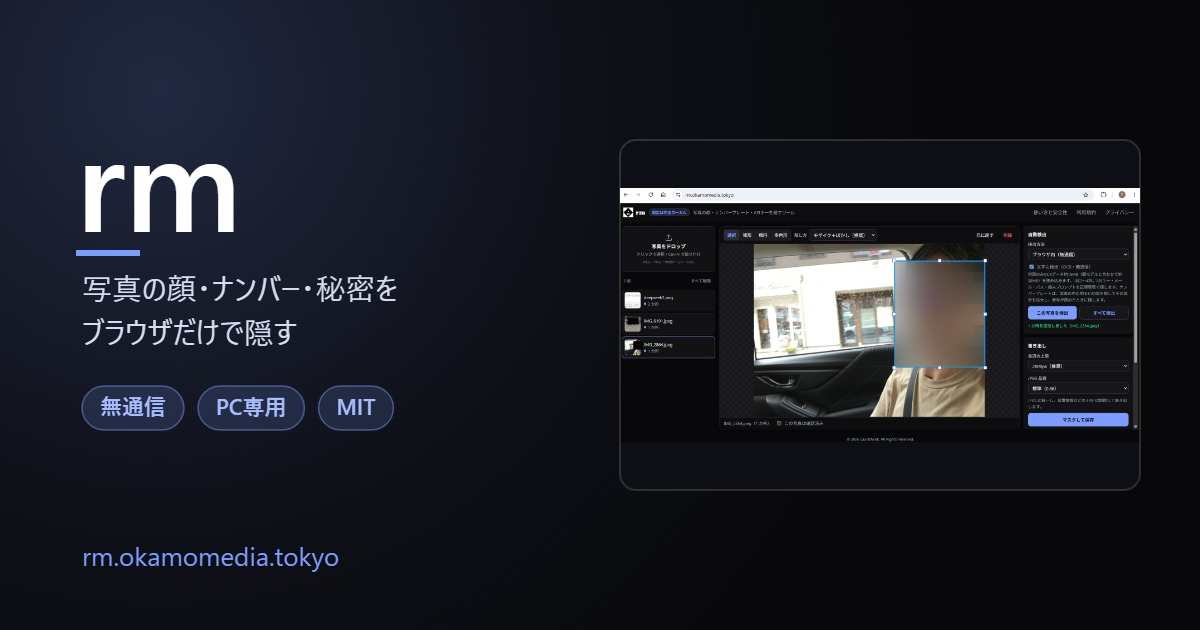
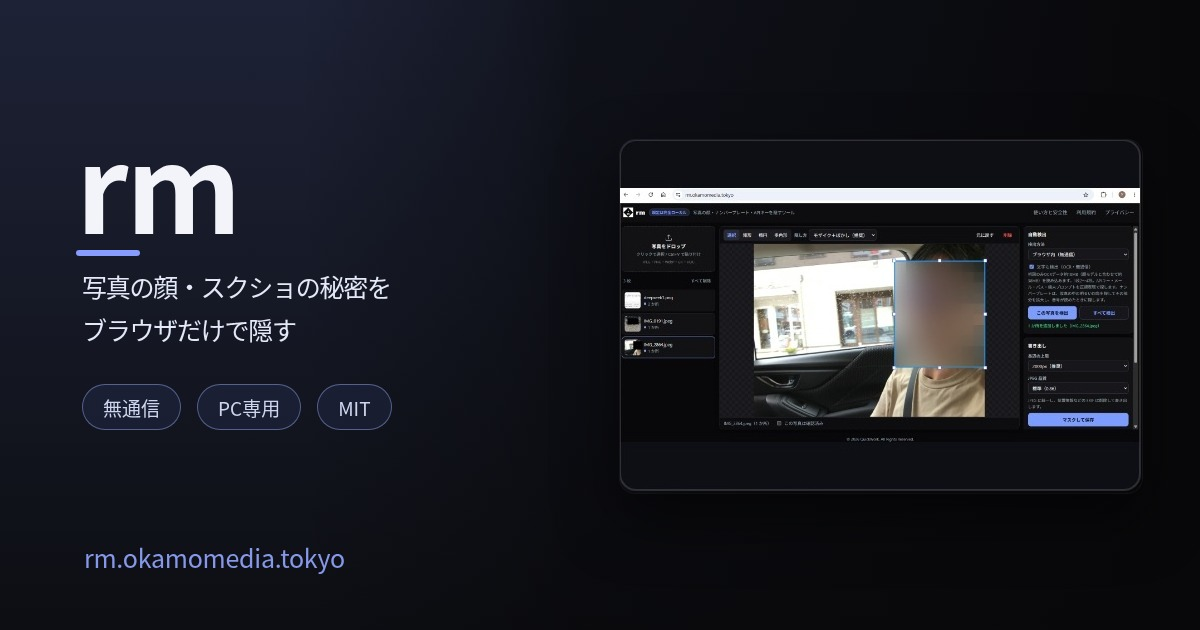
feat(og): OGP 画像を再生成し、ナンバープレートの訴求を外す
- キャッチコピーを「写真の顔・スクショの秘密を / ブラウザだけで隠す」に変更
- レイアウト・配色・アプリ画面は既存の OGP を再現（位置と色を実測して一致させた）
- scripts/gen-og.mjs を追加（npm run gen:og、--preview で確認用出力）
- 右側のアプリ画面は assets/og-shot.jpg に切り出して再生成できるようにした

diff --git a/README.md b/README.md
@@ -78,6 +78,7 @@ npm install
 npm run dev      # 開発サーバー
 npm run build    # dist/ へ本番ビルド
 npm run preview  # ビルド結果の確認
+npm run gen:og   # OGP 画像（public/og.jpg）を再生成
 ```
 
 **ネットにつながない使い方**: 「ブラウザ内（無通信）」を選べば、顔も文字も端末内で検出され、画像も一切送信しません。
